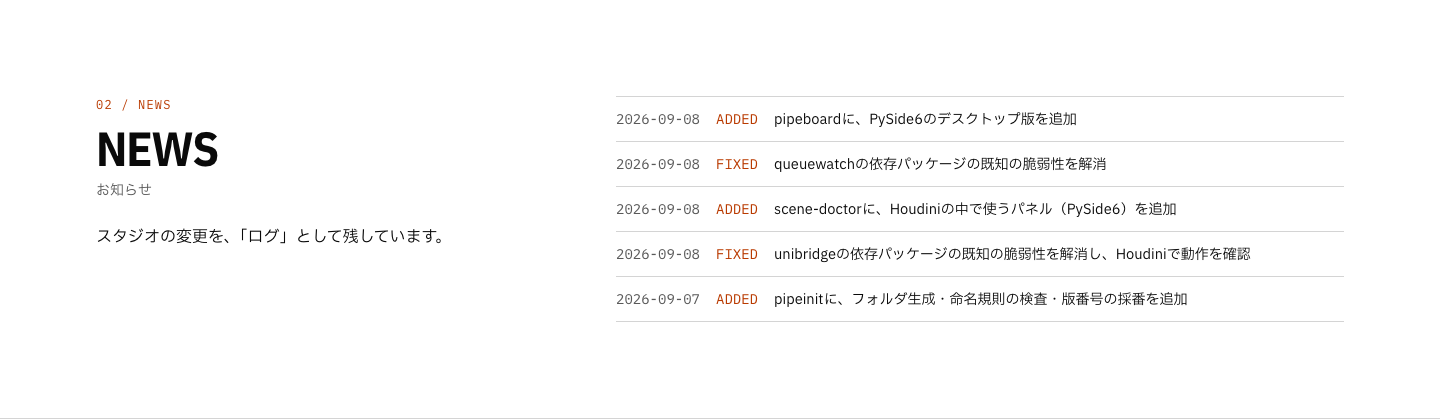
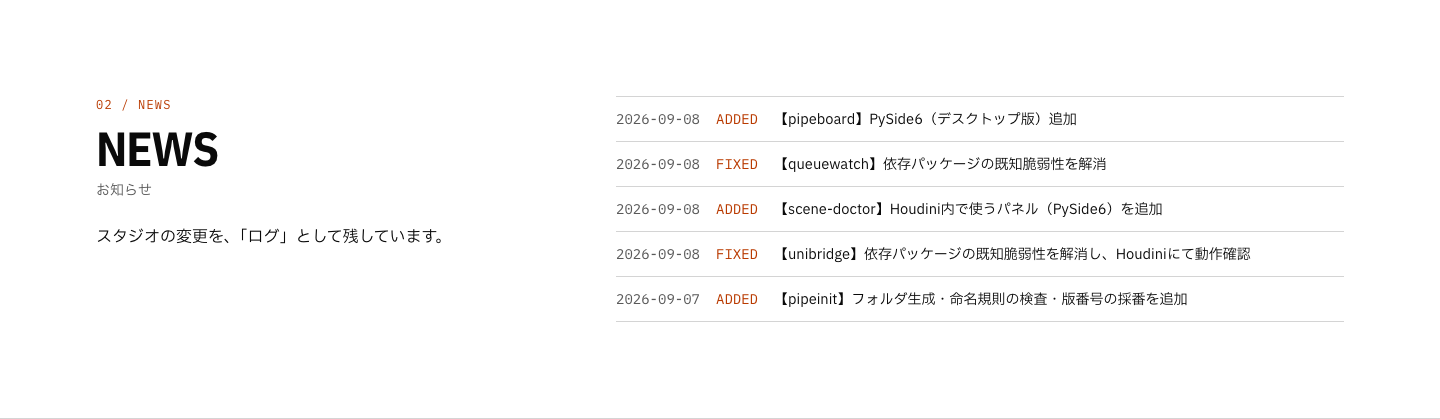
feat: add paging to the news section

diff --git a/src/components/sections/news/news-section.test.tsx b/src/components/sections/news/news-section.test.tsx
@@ -1,4 +1,5 @@
 import { render, screen } from "@testing-library/react";
+import userEvent from "@testing-library/user-event";
 import { describe, expect, it } from "vitest";
 
 import type { News } from "@/lib/content";
@@ -8,7 +9,8 @@ import { NewsSection } from "./news-section";
 const NEWS: News = {
   heading: { label: "02 / NEWS", title: "NEWS", subtitle: "お知らせ" },
   kindLabels: { added: "ADDED", updated: "UPDATED", fixed: "FIXED" },
-  latestCount: 5,
+  perPage: 5,
+  pager: { prev: "previous news", next: "next news" },
   entries: [
     { id: "b", date: "2026-03-01", kind: "added", text: "Newer item" },
     { id: "a", date: "2026-01-02", kind: "fixed", text: "Older item" },
@@ -45,5 +47,86 @@ describe("NewsSection", () => {
     render(<NewsSection news={NEWS} />);
     const section = screen.getByRole("region", { name: "NEWS" });
     expect(section).toHaveAttribute("id", "news");
+  });
+});
+
+describe("NewsSection paging", () => {
+  const entriesOf = (count: number): News["entries"] =>
+    Array.from({ length: count }, (_, index) => ({
+      id: `item-${index + 1}`,
+      date: "2026-03-01",
+      kind: "added" as const,
+      text: `Item ${index + 1}`,
+    }));
+  const pagedNews = (count: number): News => ({
+    ...NEWS,
+    entries: entriesOf(count),
+  });
+  const previous = () => screen.getByRole("button", { name: NEWS.pager.prev });
+  const next = () => screen.getByRole("button", { name: NEWS.pager.next });
+  const texts = () =>
+    screen.getAllByRole("listitem").map((item) => item.textContent ?? "");
+
+  it("shows no pager when every entry fits on one page", () => {
+    render(<NewsSection news={pagedNews(NEWS.perPage)} />);
+    expect(screen.queryByRole("button", { name: NEWS.pager.next })).toBeNull();
+    expect(screen.queryByRole("button", { name: NEWS.pager.prev })).toBeNull();
+  });
+
+  it("shows one page of entries and a pager when there are more", () => {
+    render(<NewsSection news={pagedNews(NEWS.perPage + 1)} />);
+    expect(screen.getAllByRole("listitem")).toHaveLength(NEWS.perPage);
+    expect(texts()[0]).toContain("Item 1");
+    expect(screen.queryByText("Item 6")).toBeNull();
+    expect(screen.getByText("1 / 2")).toBeInTheDocument();
+    expect(previous()).toBeDisabled();
+    expect(next()).toBeEnabled();
+  });
+
+  it("moves to the next page and back", async () => {
+    render(<NewsSection news={pagedNews(NEWS.perPage + 1)} />);
+    await userEvent.click(next());
+    expect(texts()).toEqual([expect.stringContaining("Item 6")]);
+    expect(screen.getByText("2 / 2")).toBeInTheDocument();
+    expect(next()).toBeDisabled();
+    expect(previous()).toBeEnabled();
+
+    await userEvent.click(previous());
+    expect(texts()[0]).toContain("Item 1");
+    expect(screen.getAllByRole("listitem")).toHaveLength(NEWS.perPage);
+  });
+
+  it("keeps the entries in the order they are given on every page", async () => {
+    render(<NewsSection news={pagedNews(NEWS.perPage * 2)} />);
+    await userEvent.click(next());
+    texts().forEach((text, index) =>
+      expect(text).toContain(`Item ${NEWS.perPage + index + 1}`),
+    );
+  });
+
+  it("can be paged with the keyboard", async () => {
+    render(<NewsSection news={pagedNews(NEWS.perPage + 1)} />);
+    next().focus();
+    await userEvent.keyboard("{Enter}");
+    expect(texts()).toEqual([expect.stringContaining("Item 6")]);
+  });
+
+  it("fills the empty places of the last page with hidden rows", async () => {
+    render(<NewsSection news={pagedNews(NEWS.perPage + 1)} />);
+    const fillers = () => document.querySelectorAll('li[aria-hidden="true"]');
+    expect(fillers()).toHaveLength(0);
+    await userEvent.click(next());
+    expect(fillers()).toHaveLength(NEWS.perPage - 1);
+  });
+
+  it("adds no hidden rows when everything fits on one page", () => {
+    render(<NewsSection news={pagedNews(2)} />);
+    expect(document.querySelectorAll('li[aria-hidden="true"]')).toHaveLength(0);
+  });
+
+  it("uses the page size given by the content", () => {
+    render(<NewsSection news={{ ...pagedNews(3), perPage: 2 }} />);
+    expect(screen.getAllByRole("listitem")).toHaveLength(2);
+    expect(screen.getByText("1 / 2")).toBeInTheDocument();
   });
 });

diff --git a/src/components/sections/news/news-section.tsx b/src/components/sections/news/news-section.tsx
@@ -1,25 +1,54 @@
+"use client";
+
+import { Pager } from "@/components/ui/pager";
 import { SectionFrame } from "@/components/ui/section-frame";
 import { SectionHeading } from "@/components/ui/section-heading";
+import { usePagination } from "@/components/ui/use-pagination";
 import type { News } from "@/lib/content";
 
+const FILLER_ROW_CLASS = "border-b border-transparent py-3";
+const FILLER_ROW_HEIGHT_CLASS = "h-5";
+
 export function NewsSection({ news }: { news: News }) {
+  const { page, pageCount, items, fillerCount, goTo } = usePagination(
+    news.entries,
+    news.perPage,
+  );
+
   return (
     <SectionFrame id="news">
       <SectionHeading id="news-title" heading={news.heading} />
-      <ol className="border-t border-rule font-mono text-sm">
-        {news.entries.map((entry) => (
-          <li
-            key={entry.id}
-            className="grid grid-cols-[auto_auto_1fr] gap-x-4 gap-y-1 border-b border-rule py-3"
-          >
-            <time dateTime={entry.date} className="text-muted tabular-nums">
-              {entry.date}
-            </time>
-            <span className="text-signal">{news.kindLabels[entry.kind]}</span>
-            <span className="font-sans">{entry.text}</span>
-          </li>
-        ))}
-      </ol>
+      <div className="min-w-0">
+        <ol className="border-t border-rule font-mono text-sm">
+          {items.map((entry) => (
+            <li
+              key={entry.id}
+              className="grid grid-cols-[auto_auto_1fr] gap-x-4 gap-y-1 border-b border-rule py-3"
+            >
+              <time dateTime={entry.date} className="text-muted tabular-nums">
+                {entry.date}
+              </time>
+              <span className="text-signal">{news.kindLabels[entry.kind]}</span>
+              <span className="font-sans">{entry.text}</span>
+            </li>
+          ))}
+          {Array.from({ length: fillerCount }, (_, index) => (
+            <li
+              key={`filler-${index}`}
+              aria-hidden="true"
+              className={FILLER_ROW_CLASS}
+            >
+              <div className={FILLER_ROW_HEIGHT_CLASS} />
+            </li>
+          ))}
+        </ol>
+        <Pager
+          page={page}
+          pageCount={pageCount}
+          labels={news.pager}
+          onChange={goTo}
+        />
+      </div>
     </SectionFrame>
   );
 }

diff --git a/src/lib/news/index.test.ts b/src/lib/news/index.test.ts
@@ -1,15 +1,33 @@
-import { describe, expect, it } from "vitest";
+import { describe, expect, it, vi } from "vitest";
+
+import type { NewsEntry } from "@/lib/content";
 
 import { getNews } from "./index";
 
+const MANY = 7;
+
+vi.mock("./load-news-entries", () => ({
+  loadNewsEntries: (): NewsEntry[] =>
+    Array.from({ length: MANY }, (_, index) => ({
+      id: `2026-03-0${MANY - index}-item`,
+      date: `2026-03-0${MANY - index}`,
+      kind: "added" as const,
+      text: `Item ${index + 1}`,
+    })),
+}));
+
 describe("getNews", () => {
-  it("returns the section text together with at most the latest entries", () => {
+  it("returns the section text together with the entries", () => {
     const news = getNews();
     expect(news.heading.title).not.toBe("");
-    expect(news.entries.length).toBeLessThanOrEqual(news.latestCount);
+    expect(news.pager.next).not.toBe("");
   });
 
-  it("lists the newest entry first", () => {
+  it("returns every entry, so the section can page through them", () => {
+    expect(getNews().entries).toHaveLength(MANY);
+  });
+
+  it("keeps the order the loader gives (newest first)", () => {
     const dates = getNews().entries.map((entry) => entry.date);
     expect(dates).toEqual([...dates].sort().reverse());
   });

diff --git a/src/lib/content/content.test.ts b/src/lib/content/content.test.ts
@@ -39,8 +39,18 @@ describe("content", () => {
     for (const section of sections) expect(section).toBeDefined();
   });
 
-  it("rejects a news section that shows no entries on the home page", () => {
-    const broken = { ...rawNews, latestCount: 0 };
+  it("rejects a news section that shows no entries per page", () => {
+    const broken = { ...rawNews, perPage: 0 };
+    expect(newsSchema.safeParse(broken).success).toBe(false);
+  });
+
+  it("rejects a news section with a page size that is not a whole number", () => {
+    const broken = { ...rawNews, perPage: 2.5 };
+    expect(newsSchema.safeParse(broken).success).toBe(false);
+  });
+
+  it("rejects a news section without labels for the pager buttons", () => {
+    const broken = { ...rawNews, pager: undefined };
     expect(newsSchema.safeParse(broken).success).toBe(false);
   });
 

diff --git a/src/lib/content/schema.ts b/src/lib/content/schema.ts
@@ -53,7 +53,8 @@ export const inversionSchema = z.object({
 export const newsSchema = z.object({
   heading: sectionHeadingSchema,
   kindLabels: z.object({ added: text, updated: text, fixed: text }),
-  latestCount: z.number().int().positive(),
+  perPage: z.number().int().positive(),
+  pager: z.object({ prev: text, next: text }),
 });
 
 export const newsEntrySchema = z.object({

diff --git a/content/sections/news.ts b/content/sections/news.ts
@@ -6,5 +6,6 @@ export const news = {
     lead: "スタジオの変更を、「ログ」として残しています。",
   },
   kindLabels: { added: "ADDED", updated: "UPDATED", fixed: "FIXED" },
-  latestCount: 5,
+  perPage: 5,
+  pager: { prev: "前のお知らせ", next: "次のお知らせ" },
 };

diff --git a/src/lib/news/index.ts b/src/lib/news/index.ts
@@ -6,6 +6,6 @@ import { loadNewsEntries } from "./load-news-entries";
 export function getNews(): News {
   return {
     ...news,
-    entries: loadNewsEntries().slice(0, news.latestCount),
+    entries: loadNewsEntries(),
   };
 }
